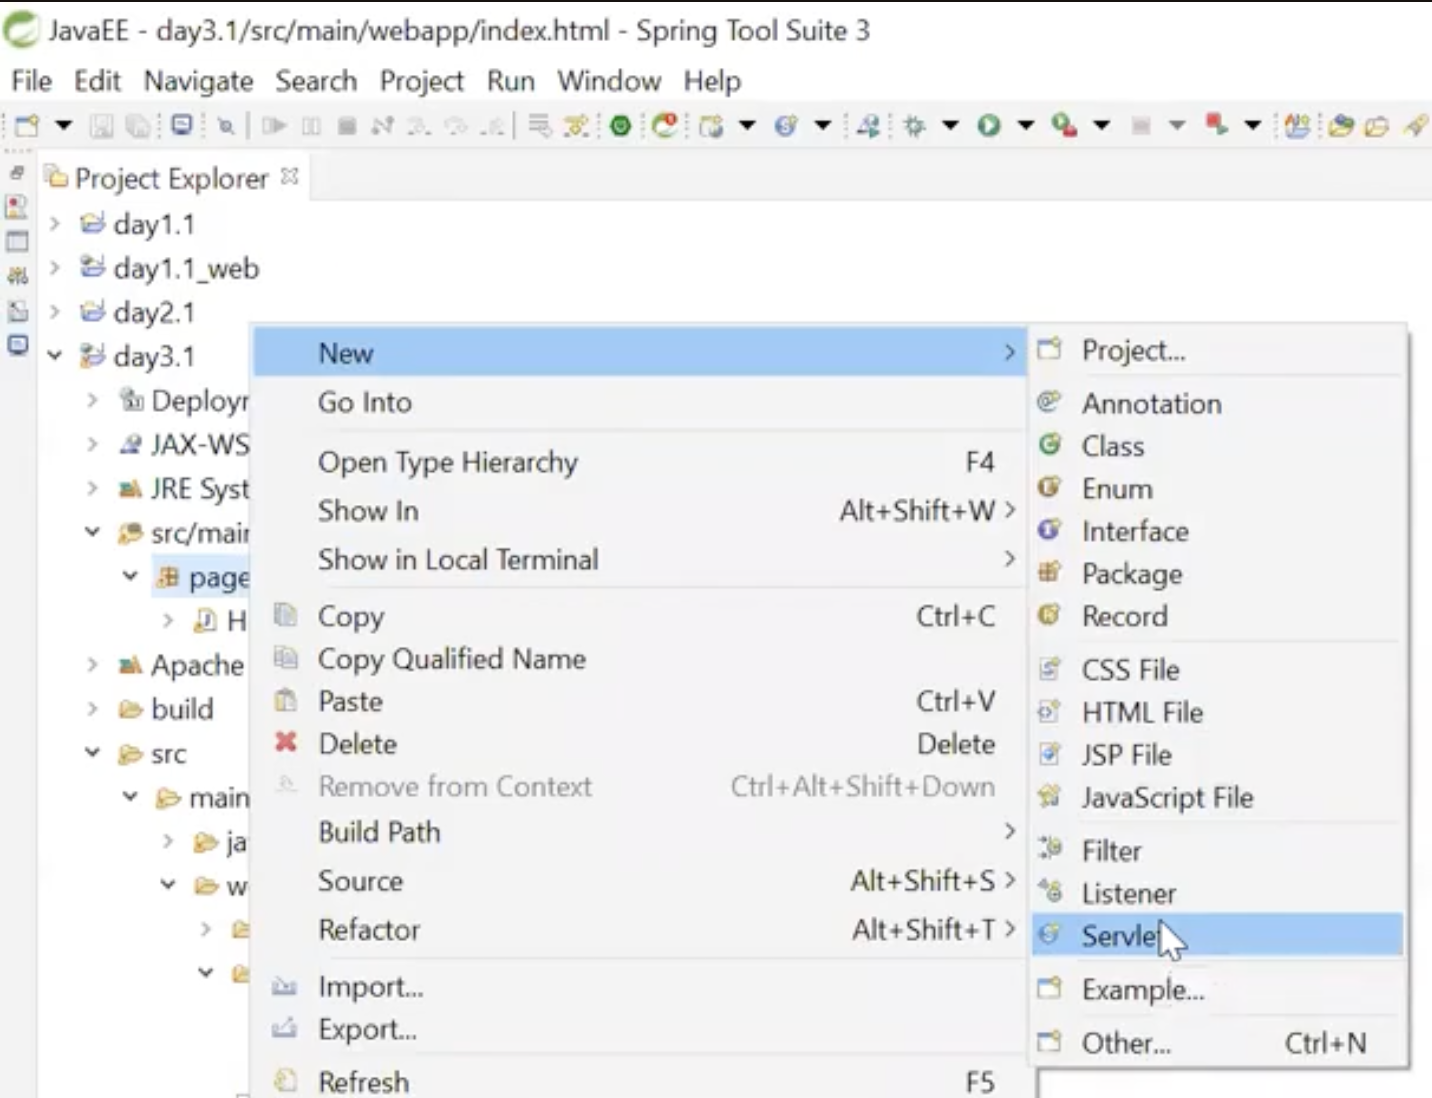
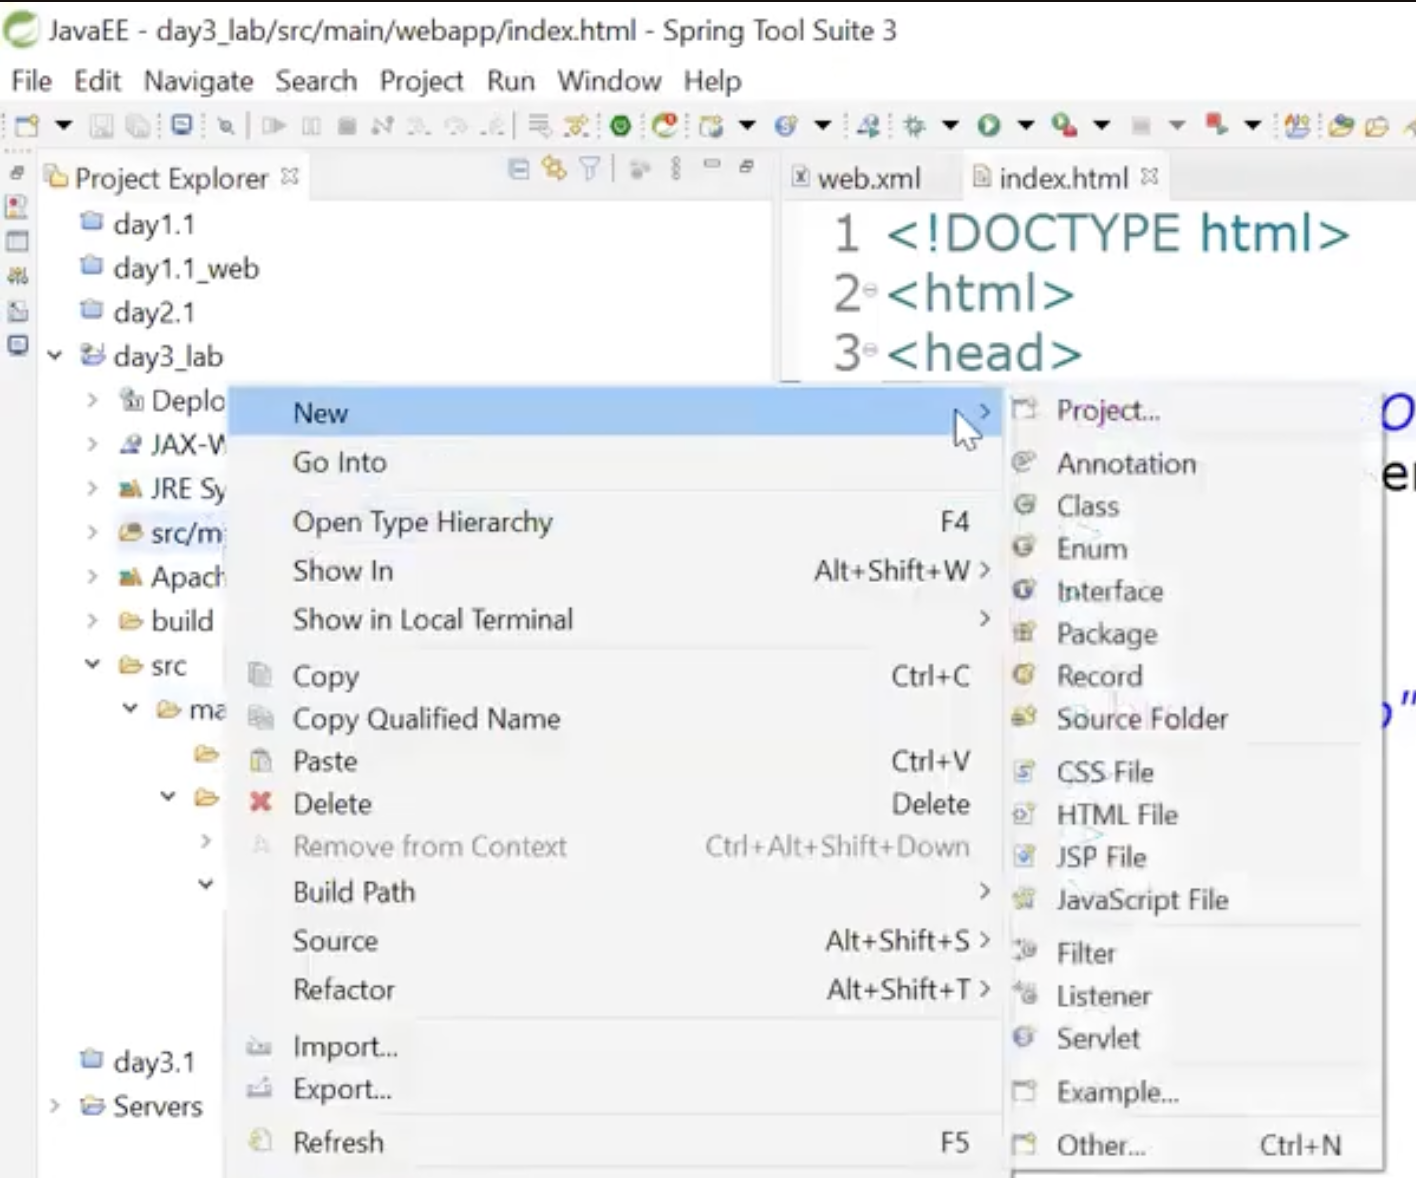
08 video completed

Changed region(s): [[0.0, 0.0, 1.0, 1.0], [0.0311, 0.867, 0.1554, 0.9599], [0.6215, 0.5574, 0.6836, 0.5883]]

diff --git a/AdvancedJava/notes/README.md b/AdvancedJava/notes/README.md
@@ -162,7 +162,8 @@ Fix it.
 Day 22
 1.Complete earlier work
 2.import day 22.1 in your core java workspace n revise, ITC n daemon threads 
-
+### LAB
+```text
 Java EE
 Day 1
 1. import day1.1, in your newly created J2EE workspace
@@ -186,6 +187,7 @@ O: A message indicating success or failure
 
 3. Get all available topics
 to be continued in day 5..
+```
 interface ResultSet 
 02 Advanced Java- Learn with CDAC 1:36:18
 cms - content management system
@@ -243,7 +245,8 @@ POJO - plain old java object-> represents DB entity doesn't have any business lo
 
 Enter layered architecture
 ![layers](layers.png)
-
+### LAB
+```text
 Solve below Objectives, using layers
 Display details(id, name, salary, join date) of all emps from a specific dept, joined between start date n end date
 sql : select id, name, salary, join_date from my_emp where deptid=? and join_date between ? and  ?
@@ -279,7 +282,7 @@ String updateEmpDetails(emp id, new dept, sal incr) throws SQLExc
 
 5. Remove emp details
 i/p emp id
-
+```
 
 refer earlier utils/DBUtils class
 pojos/Employee.java
@@ -694,7 +697,8 @@ public class TestStoredProc{
 ```
 
 # 05 - Advance JAVA - Day 2.3 - JDBC Types, Stored Procedures, and Tomcat Web Server - CDAC
-
+LAB
+```text
 Day 2
 1. Revise JDBC CRUD app, by importing day 2.1 in your workspace
 1.1 Fix build path
@@ -753,7 +757,7 @@ String updateVisits(int tutorialId) throws SE
 Add a web server to the workspace. Test it, Deploy a simple web app n test HTML content.
 
 4. Discuss reading H.W
-
+```
 ## (1:25:00) tomcat steps readme
  watch yourself
 
@@ -845,16 +849,16 @@ public void init() throws ServletException{
 
 Deployment of the servlet
 1. via annotation
-eg: @WebServlet(value="/validate")
-public class LoginServlet extends H.S{...}
-Map:
-key -- /validate
-value -- F.Q servlet class name
-URL : http://host:port/day1.1/validate?...
+* eg: @WebServlet(value="/validate")
+* public class LoginServlet extends H.S{...}
+* Map:
+* key -- /validate
+* value -- F.Q servlet class name
+* URL : http://host:port/day1.1/validate?...
 
 2. Using XML tags
-How to deploy a servlet w/o annotations -- via XML tags
-web.xml
+* How to deploy a servlet w/o annotations -- via XML tags
+* web.xml
 ```xml
 <servlet>
  <servlet-name>abc</servlet-name>
@@ -890,4 +894,150 @@ xsi:schemaLocation="http://xmlns.jcp.org/xml/ns/javaee http://xmlns.jcp.org" id=
 </servlet-mapping>
 </web-app>
 ```
+* Interface ServletRequest has methods
+ -> String getParameter(String name)--> returns value of the parameter as string or null if not available 
+ -> String[] getParameterValues(String name) --> returns array of Strings containing all values the given parameter has or null if doesn't exist.
+* in scroll options, single select-> getParameter
+* multiple select -> getParameterValues
+* ```<input type="radio" .. >``` -> getParameter -> only single value accepted by radio buttons
+* html code ```<td><input type="text" name="f1"/></td>```will have Java code ``` request.getParameter(f1);```
+* html code
+```html
+<tr>
+<td>Choose Favorite colors</td>
+<td>Blue<input type="checkbox" name="clr" value="blue"/></td>
+<td>Red<input type="checkbox" name="clr" value="red"/></td>
+<td>Pink<input type="checkbox" name="clr" value="pink"/></td>
+<td>Yellow<input type="checkbox" name="clr" value="yellow"/></td>
+</tr>
+```
+will have Java code ``` Arrays.toString(request.getParameterValues(clr))```
+
+* ```<form action="test_input">``` --> dafault method is get
+* ```<form action="test_input" method="post">``` --> changed example--> cross check -> refresh browser -> right click and "view page source"
+
+# 08 - Advance JAVA - Day 3.3 - JDBC Types, Statements - Java By Madhura Anturkar - CDAC
+
+### LAB
+from  05
+```text
+Day 3
+Please follow this sequence in today's lab
+Refer to today's sequence.text, diagrams, readmes for better understanding n revise.
+
+Steps
+1. Create a new dynamic web project(check web.xml checkbox): eg day3_lab
+
+1.1 Create a welcome page : index.html
+Add a link : to invoke the servlet(which will be deployed using @WebServlet annotation)
+
+Create FirstServlet.java, override life cycle methods & trace the life cycle.
+Use @WebServlet annotation
+
+1.2 Add another link in index.html : to invoke the servlet(which will be deployed using xml tags)
+
+Create SecondServlet.java, override life cycle methods & trace the life cycle.
+DO NOT use @WebServlet annotation, instead add xml tags in web.xml
+
+1.3 Add / in anchor tag's href. Observe n conclude
+1.4 Remove / from the url-pattern. Observe n conclude
+1.5 Give same url-pattern to both of these servlets. Observe n conclude
+1.55 Can one servlet be deployed under multiple url patterns? YES
+using @WebServlet(value={"/hello","/hi"})
+1.6 Add a new link in index.html : for User Login
+Copy login.html from \JavaEE\day3-data\day3_help\HTML pages\login.html under webapp(i.e. root of the web application)
+Write a LoginServlet, to display user's email n password.
+
+2. Complete pending work.
+```
+
+new dynamic web project
+perspective to javaEE,
+servers projects on, rest day's projects better be closed.
+day3/src/main/webapp/WEB-INF/web.xml
+
+```xml
+<?xml version="1.0" encoding="UTF-8"?>
+<web-app xmlns:xsi="http://http://www.w3.org/2001/XMLSchema-instance" xmlns=..>
+    <display-name>day3_lab</display-name>
+    <welcome-file-list>
+        <welcome-file>index.html</welcome-file>
+    </welcome-file-list>
+</web-app>
+```
+![Where does src/main/webapp contents deployed- to the root of project i.e. /../ is root basically](wheresrcmainwebappconentsdeployed.png)
+public document space is root of webapp-> /
+
+create new file as src/main/webapp/index.html
+```html
+<!DOCTYPE html>
+<html>
+    <head>
+        <meta charset="ISO-8859-1">
+        <title>Insert title here</title>
+    </head>
+    <body>
+        <h5>
+            <a href="helo">Test Servlet Deployed using annotation</a>
+        </h5>
+    </body>
+</html>
+```
+![new servlet](newservlet.png)
+![which src/main/java note that](whichsrcmainjava.png)
+![create servlet](createservlet.png)
+create new servlet as src/main/java/
+* metion package and classname
+* edit URL mappings -> match with form or link href tag from html
+* select init, destroy, doGet
+HelloServlet.java
+```java
+package pages;
+import java.io.IOException;
+/**
+ * Servlet implementation class HelloServlet
+ * /
+ //http://host:port/day3_lab/hello : URL
+ //URI : /day3_lab/hello
+ //URL Pattern : /hello
+ //WC creates empty Map @ web app deployment time
+ //populates it. Key : /hello
+ //Value : pages.HelloServlet
+ @WebServlet("/hello")
+ public class HelloServlet extends HttpServlet{
+    private static  final long serialVersionUID = 1L;
+
+    /**
+     * @see Servlet#init(SerletConfig)
+     * /
+     public void init() throws ServletException{
+        System.out.println("in init : by "+ Thread.currentThread());//name.prio:thrdgrp
+     }
+     /**
+      * @see Servlet#destroy()
+      * /
+      public void destroy(){
+        System.out.println("in destroy : by "+ Thread.currentThread());
+      }
+      /**
+       *  @see HttpServlet#doGet(HttpServletRequest request, HttpServletResponse response)
+       * /
+       protected void doGet(HttpServletRequest request, HttpServletResponse response) throws ServletException{
+            System.out.println("in do-get : by " + Thread.currentThread());
+            //1. set content type : resp header
+            response.setContentType("text/html");
+            //2. get char buffered o/p stream : to send the resp from servlet --> client
+            try(PrintWriter pw=response.getWriter()){
+            //resp body
+            pw.print("<h5> Hello from Servlet, Server TimeStamp" + LocalDateTime.now()+"</h5>");
+
+            }
+       }
+ }
+```
+
+WC behaves in lazy loading manner - servlet called as requested by client
+
+# 09 - Advance JAVA - Day 4.1 - Servlets, Databases, Navigation, and Session Tracking - CDAC
+
 
